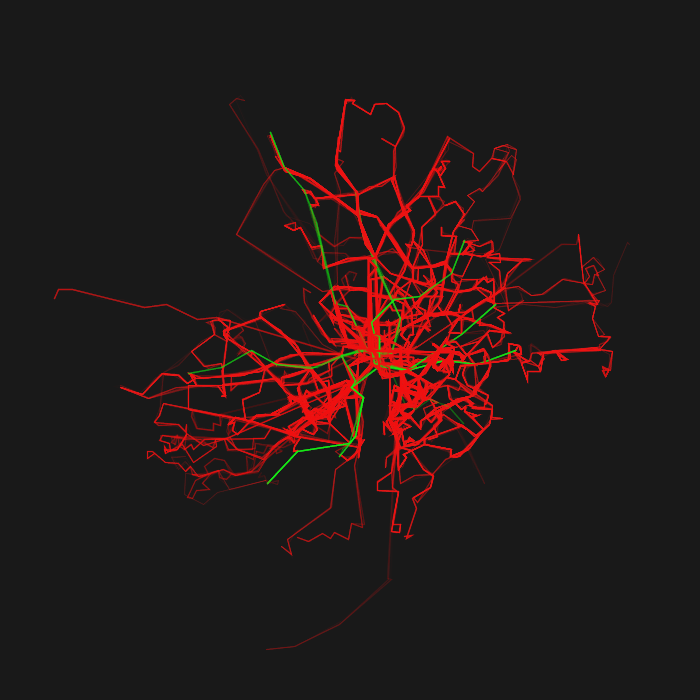
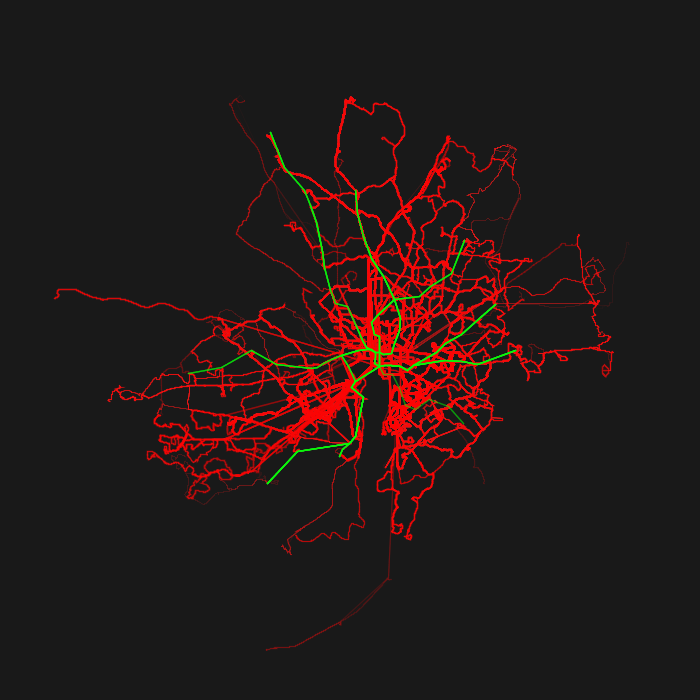
updated colors

diff --git a/README.md b/README.md
@@ -20,16 +20,13 @@ not provide sufficient RAM.
 The colors currenltly used are:
 
 	tram                    #0000ff	blue
-	rail, inter-city        #ff0000	red
 	subway, metro           #00ff00	green
-	cable car               #ffffff	white
-	gondola                 #ffffff	white
-	funicular               #ffffff	white
-	ferry                   #ffffff	white
-
-I'll update the renders with different colors shortly. The four whites 
-don't make sense, and have just been there to test the rendering.
-
+	rail, inter-city        #ffff00 yellow
+	bus                     #ff0000 red
+	ferry                   #00ffff cyan
+	cable car               #fee0d2 ocker
+	gondola                 #ff00ff purple
+	funicular               #ffffff white
 
 ### Ulm
 
